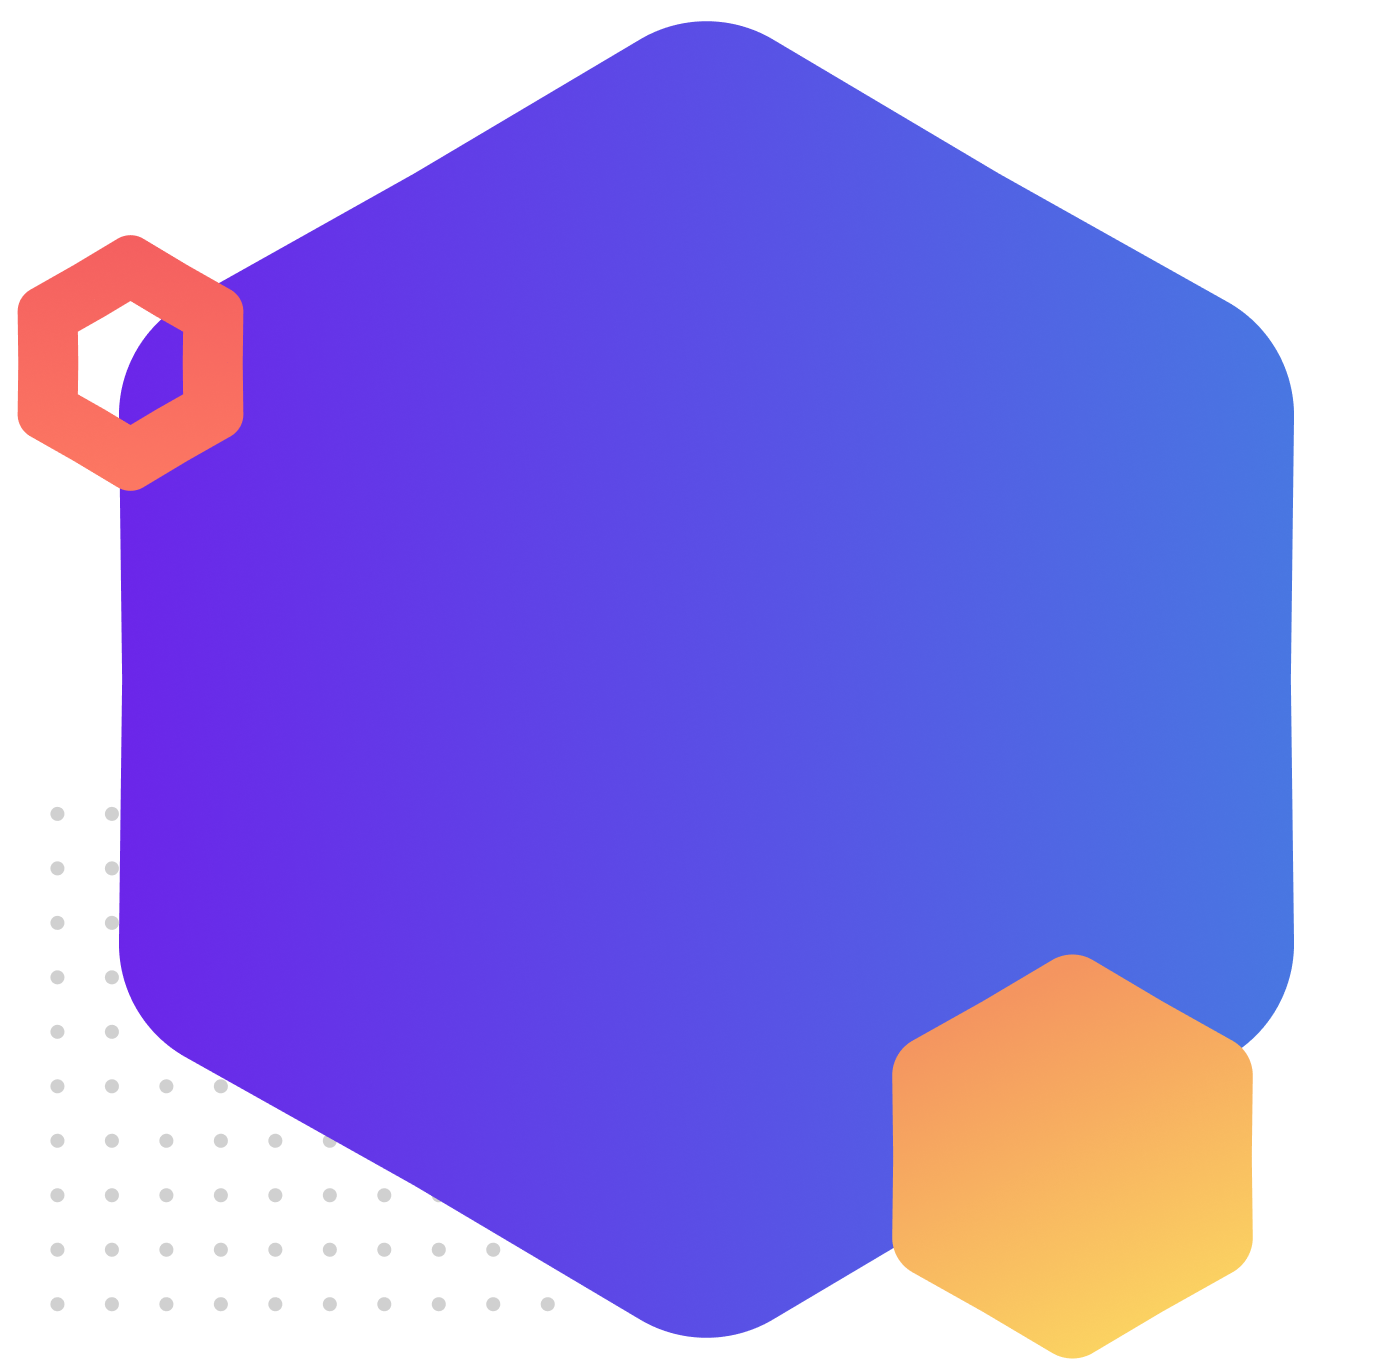
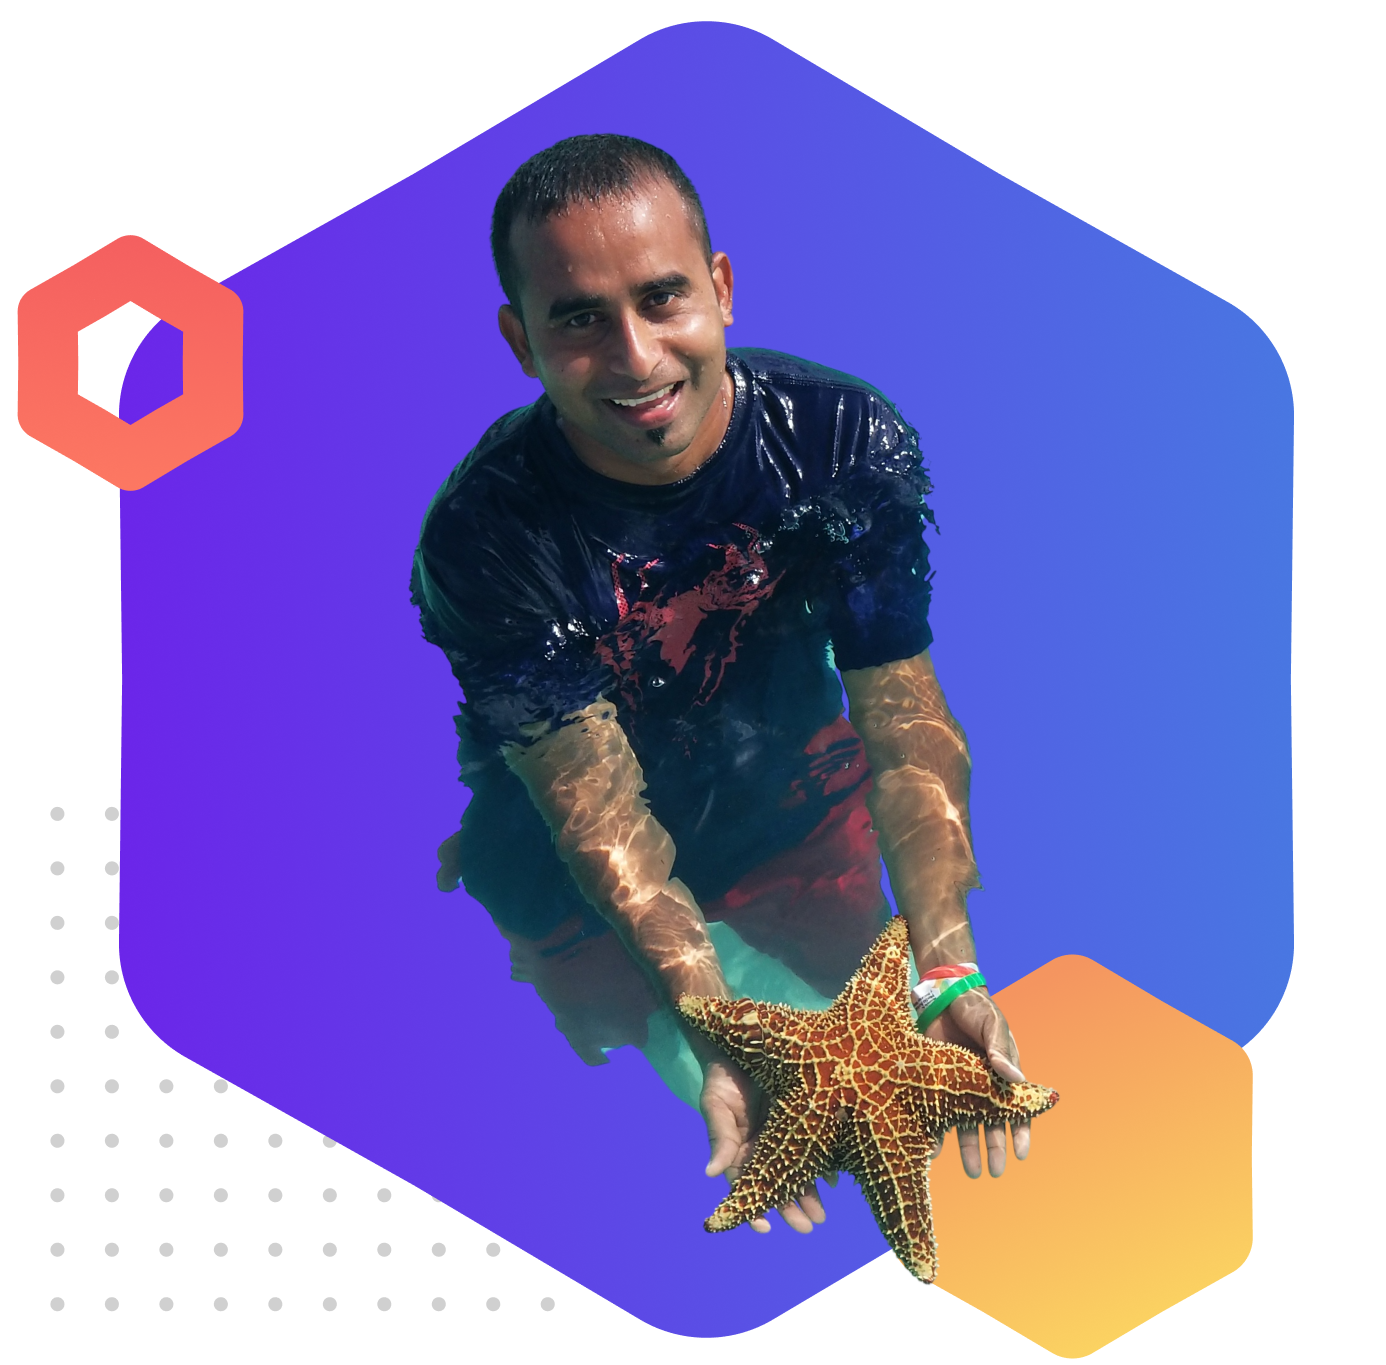
almost done website

Changed region(s): [[0.2792, 0.0923, 0.7756, 0.9538]]

diff --git a/index.html b/index.html
@@ -11,26 +11,54 @@
 </head>
 <body>
     <section>
-        <div>
+        <div class="half-width">
             <h1>HELLO I AM</h1>
             <h3>BONOSREE ROY</h3>
             <p>I am a full stack web developer. I work in these days remote jobs.I like to solving problems and try to creat new new things.</p>
             <a class= "link-button" target ="_blank" href="https://github.com/">HIRE ME</a>
 
         </div>
-        <div>
-            <img src="" alt="">
+        <div class= "half-width">
+            <img src="images/shapes/Group 33087.png" alt="">
+
+        </div>
+    </section>
+    <section>
+        <div class="half-width">
+       <img src="images/shapes/Group 33084.png" alt="">
+        </div>
+        <div class ="half-width">
+        <h1>ABOUT</h1>
+        <p>Lorem ipsum dolor sit amet consectetur adipisicing elit. Enim repellendus ducimus, dolore cupiditate beatae amet delectus veniam quas facilis debitis quae nesciunt officia quibusdam sed et provident error minus natus?</p>
+        <a class= "link-button" target ="_blank" href="https://github.com/">DOWNLOAD CV</a>
+
+        </div>
+    </section>
+    <section >
+        <h2><span class= "name-highlight">LATEST</span> WORKING PROJECT</h2>
+        <div class ="project-area">  
+            <img class= "project-pic" src="images/images/image 4.png" alt="">
+            <h2>Power-x-gym (Gym website)</h2>
+            <p>Lorem ipsum dolor sit amet, consectetur adipisicing elit. Aliquam, sit. Alias harum amet totam vel.</p>
+
+        </div>
+        <div class ="project-area">
+            <img  class= "project-pic" src="images/images/image 5.png" alt="">
+            <h2>Creative agency</h2>
+            <p>Lorem ipsum dolor sit amet consectetur adipisicing elit. Quasi consectetur similique quia, eos a suscipit quos omnis vel .</p>
+
+        </div>
+        <div class ="project-area">
+            <img class= "project-pic" src="images/images/image 8.png" alt="">
+            <h2>Melody music</h2>
+            <p>Lorem ipsum dolor sit, amet consectetur adipisicing elit. Deserunt dolore culpa eius enim quis, dolores delectus eligendi .</p>
 
         </div>
     </section>
     <section>
         <div>
-       <img src="" alt="">
-        </div>
-        <div>
-        <h1>ABOUT</h1>
-        <p>Lorem ipsum dolor sit amet consectetur adipisicing elit. Enim repellendus ducimus, dolore cupiditate beatae amet delectus veniam quas facilis debitis quae nesciunt officia quibusdam sed et provident error minus natus?</p>
-        <a class= "link-button" target ="_blank" href="https://github.com/">DOWNLOAD CV</a>
+            <h1>WORK INQUIRY</h1>
+            <a class= "link-button" target ="_blank" href="https://github.com/">Let's Chat</a>
 
         </div>
     </section>

diff --git a/style.css b/style.css
@@ -1,11 +1,15 @@
 section{
     height:500px;
+    padding-bottom: 150px;
 }
 body{
     font-family: 'Noto Sans KR', sans-serif;
 }
 h1{
-    color:darkgreen;
+    color:orangered;
+}
+h2{
+    text-align:center;
 }
 h3{
     color: darkmagenta;
@@ -16,4 +20,29 @@ h3{
     padding:1%;
     border-radius: 5px;
     color:black;
+}
+.half-width{
+
+    width:40%;
+    float:left;
+    margin-left: 5%;
+    padding: 2%;
+}
+.half-width img{
+    width:100%;
+}
+.name-highlight{
+    color:orangered;
+}
+.project-area{
+    border: 5px  solid whitesmoke;
+    border-radius: 30px;
+    margin:1%;
+    padding: 1%;
+    height: 80%;
+    width:25%;
+    display:inline-block;
+    }
+.project-pic{
+    width:100%;
 }
